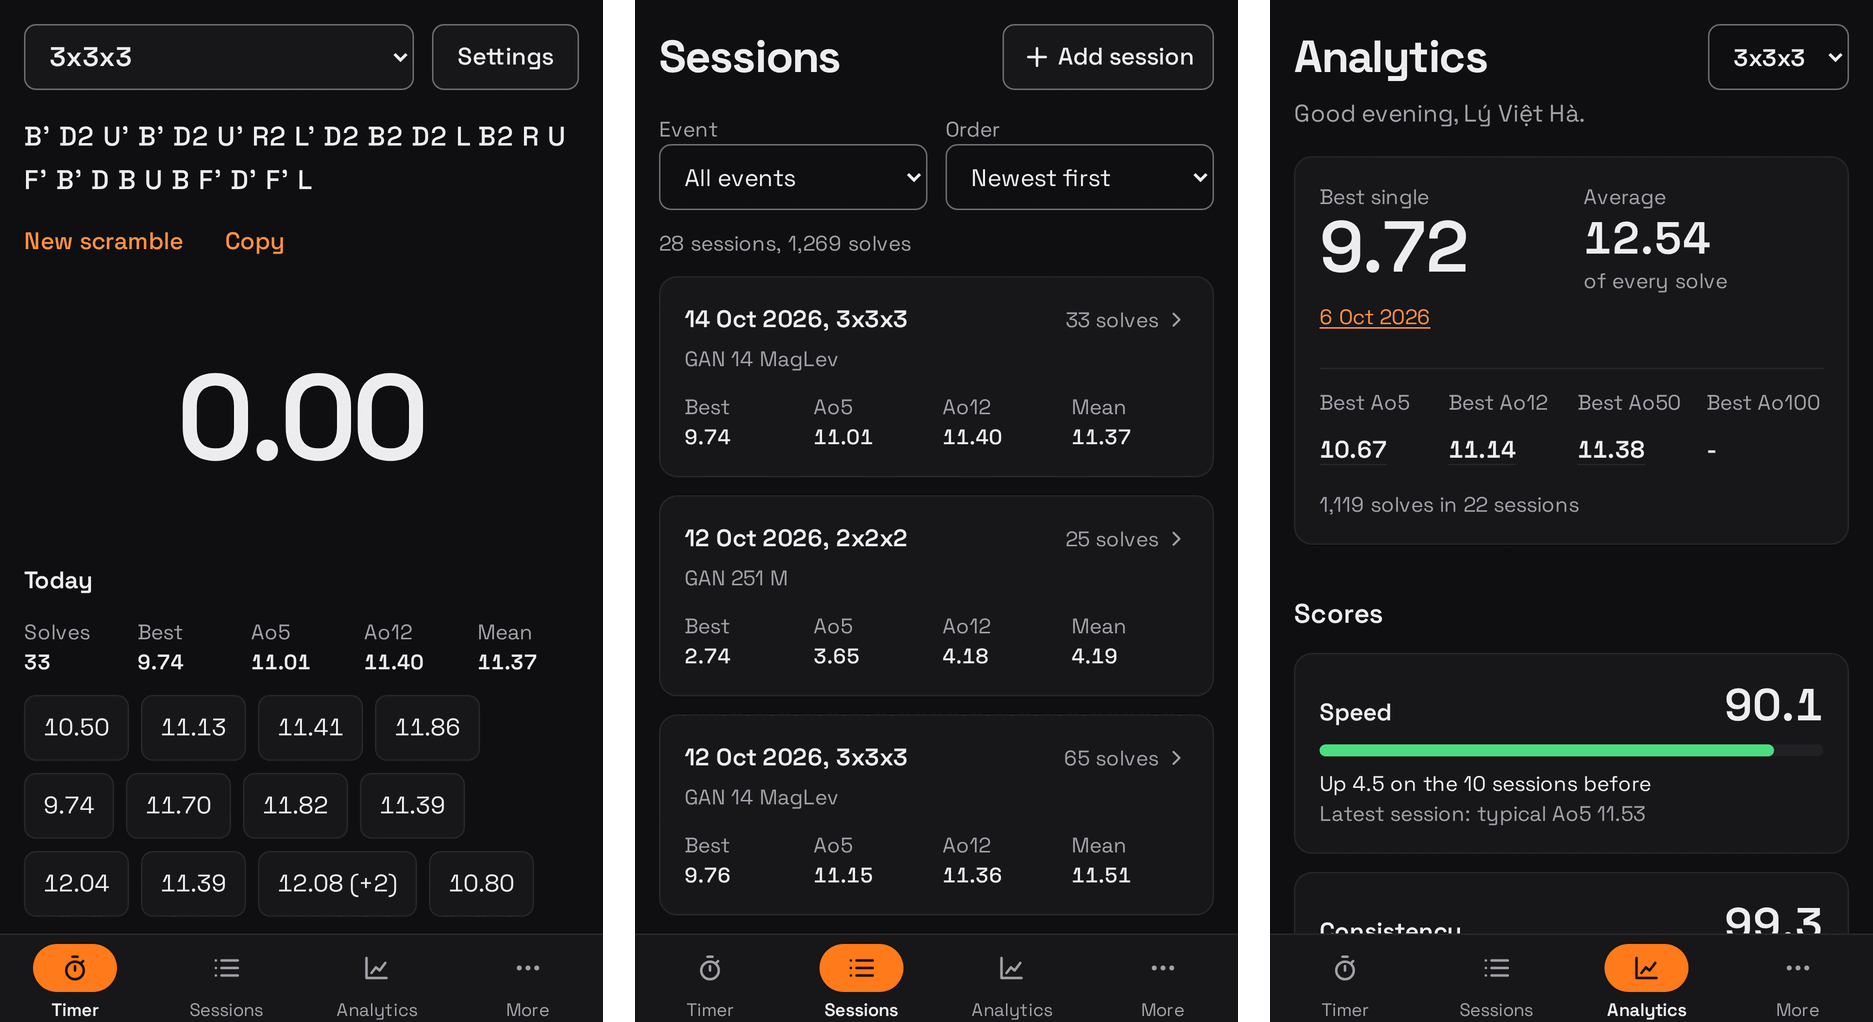
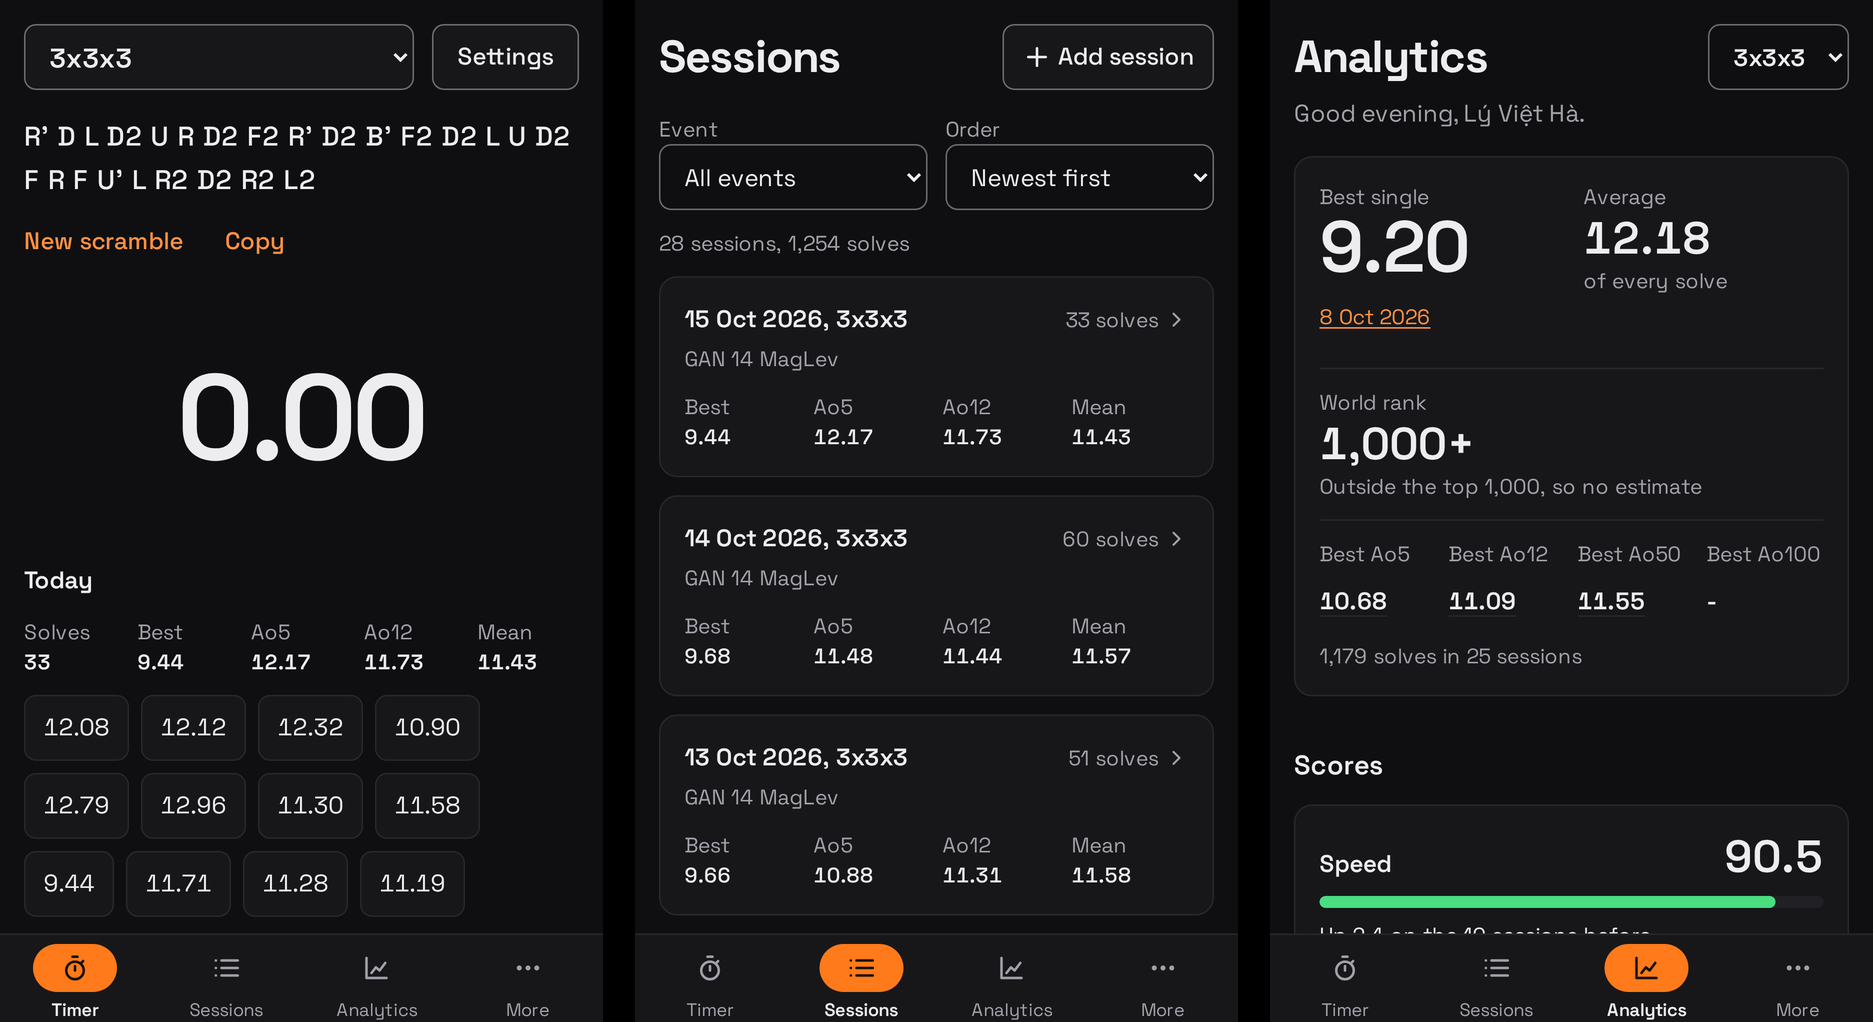
docs: describe the world rank on the phone, and retake its screenshot
The phone app's Analytics tab now shows the world rank, so the README screenshot and the docs
say so.

- The phone app's README says where the rankings come from and how they're kept for offline use.
- The README and the roadmap list the world rank among what the phone app has.

diff --git a/pwa/README.md b/pwa/README.md
@@ -38,24 +38,31 @@ It works offline after the first visit, and updates itself the next time you lea
   for each session, and see each cube's solves, best, and best Ao5 in the event it's used most
   for. A cube you stop using is retired, so its sessions keep it.
 - **WCA ID:** on the More tab, type your WCA ID and Lookahead looks up your name on the WCA
-  website (the only thing that needs the internet). It travels with your backups.
-- **Analytics:** for each event, your best single (tap it for its session), the average of every
-  solve, your best Ao5 to Ao100, and the Speed, Consistency, and Overall scores against WCA
-  competitors, with the same insights as the desktop app. Four charts (progress, how your times
-  spread out, rolling Ao5 and Ao12, and consistency across sessions) cover the whole event or a
-  single session, each with a sentence saying what it shows. The scores use the same summary of
-  WCA results as the desktop app, bundled so they work offline.
+  website. It travels with your backups.
+- **Analytics:** for each event, your best single (tap it for its session) and where it would
+  rank in the world, the average of every solve, your best Ao5 to Ao100, and the Speed,
+  Consistency, and Overall scores against WCA competitors, with the same insights as the desktop
+  app. Four charts (progress, how your times spread out, rolling Ao5 and Ao12, and consistency
+  across sessions) cover the whole event or a single session, each with a sentence saying what
+  it shows. The scores use the same summary of WCA results as the desktop app, bundled so they
+  work offline.
 - **Import and export:** on the More tab, **Import from CSTimer** reads a CSTimer export (TXT or
   JSON) and shows its sessions to pick from, each with its event (CSTimer's scramble type picks
   it where it can). Every solve keeps its date, penalty, and comment, each session can be split
   into one a day, and solves already here are skipped, so importing the same file again only
   adds new ones. **Export solves (CSV)** saves every solve, or one session's (from the session's
   page), for a spreadsheet, in the same columns as the desktop app's.
+- **World rank:** worked out the same way as the desktop app's, from the WCA rankings the
+  [Unofficial WCA Public API](https://wca-rest-api.robiningelbrecht.be/) publishes. They list
+  the fastest 1,000 people in each event, so a slower single shows as outside the top 1,000
+  rather than a guess. The phone keeps the rankings it fetches, gets new ones once a day when
+  it's online, and uses the ones it has when it isn't, so only the first look at each event, and
+  the WCA ID lookup, need the internet.
 - **Light or dark:** dark by default, as in the desktop app, unless your phone is set to light.
   **Appearance** on the More tab keeps it light or dark whatever the phone does, or **System**
   follows the phone again. The choice stays on this phone, apart from your backups.
 
-Your world rank and picking an older session in the timer come next.
+Picking an older session in the timer comes next.
 
 ## Development
 

diff --git a/README.md b/README.md
@@ -27,14 +27,14 @@ Named after **lookahead**, the speedcubing skill of finding your next pieces whi
 Lookahead is being rebuilt as an app for your phone's Home Screen that
 works offline, at https://havl-code.github.io/lookahead/. It's a preview for now: it has the
 timer, with WCA inspection, your sessions and solves (to look through, edit, and add to), your
-cubes, your WCA ID, the Analytics tab, with the same scores, insights, and charts, CSTimer
-import, and CSV export, and a backup moves your solves between it and the desktop app. Once the
-phone app does everything the desktop app does, it replaces it.
+cubes, your WCA ID, the Analytics tab, with the same scores, insights, charts, and world
+rank, CSTimer import, and CSV export, and a backup moves your solves between it and the desktop
+app. Once the phone app does everything the desktop app does, it replaces it.
 
 To try it, open the link on your phone, then add it to your Home Screen (in Safari, tap Share,
 then **Add to Home Screen**; in Chrome, tap **Install app**). It works offline from then on.
 
-<img src="docs/screenshots/phone-app.png" width="840" alt="Lookahead on a phone: the timer with a scramble and today's solves and averages, the sessions list with each day's best, Ao5, Ao12, and mean, and the Analytics tab with the best single, best averages, and the Speed score">
+<img src="docs/screenshots/phone-app.png" width="840" alt="Lookahead on a phone: the timer with a scramble and today's solves and averages, the sessions list with each day's best, Ao5, Ao12, and mean, and the Analytics tab with the best single, world rank, best averages, and the Speed score">
 
 ---
 

diff --git a/docs/ROADMAP.md b/docs/ROADMAP.md
@@ -133,8 +133,8 @@ Not released yet.
   https://havl-code.github.io/lookahead/. It's being rebuilt to do everything the desktop app
   does, and then replaces it. So far it has the timer for every event the desktop app times,
   sessions and solves to look through, edit, and add to, cubes, the WCA ID, the Analytics tab
-  (the same scores, insights, and charts), CSTimer import, CSV export, and backups in the same
-  format as the desktop app's, both ways
+  (the same scores, insights, charts, and world rank), CSTimer import, CSV export, and backups
+  in the same format as the desktop app's, both ways
 
 ---
 
